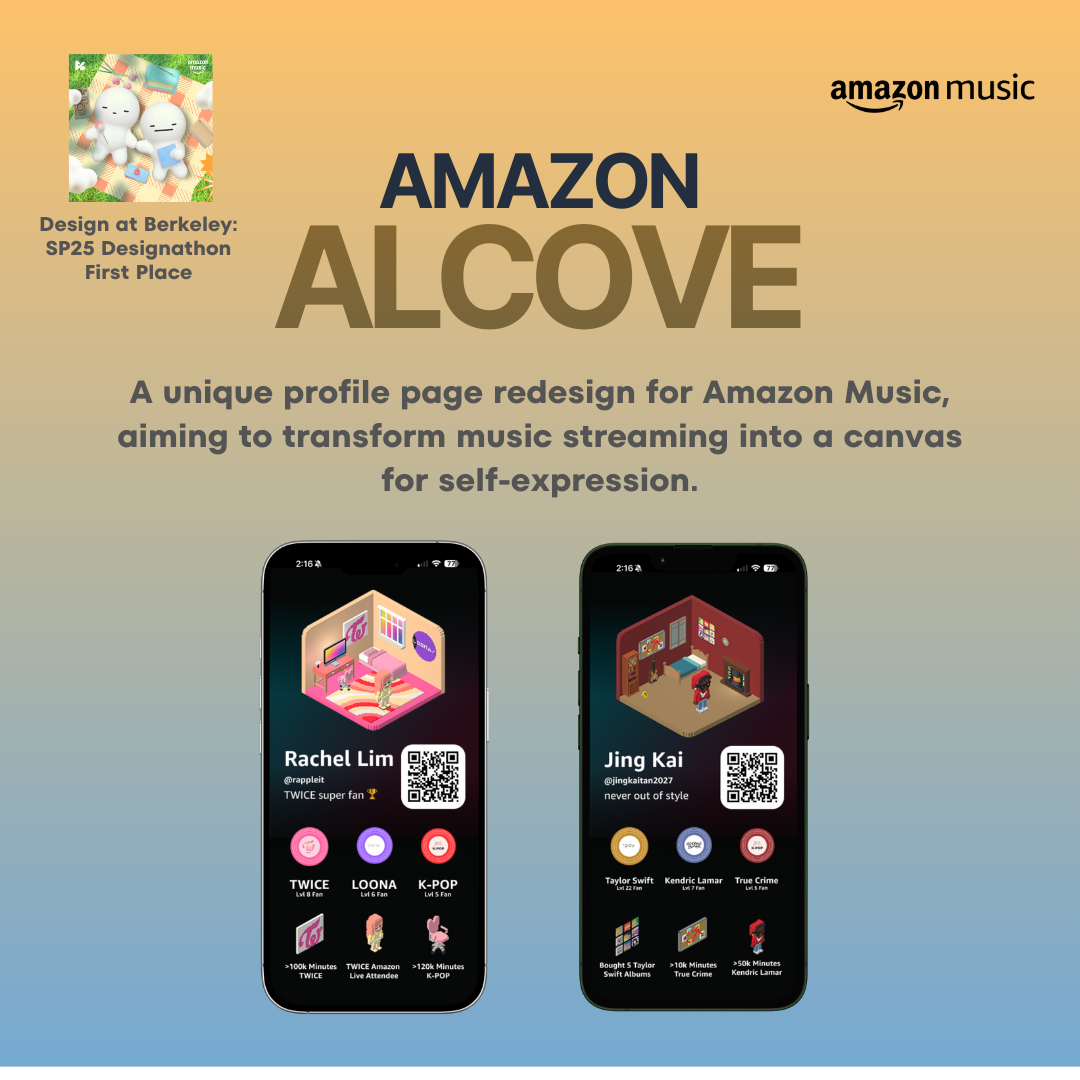
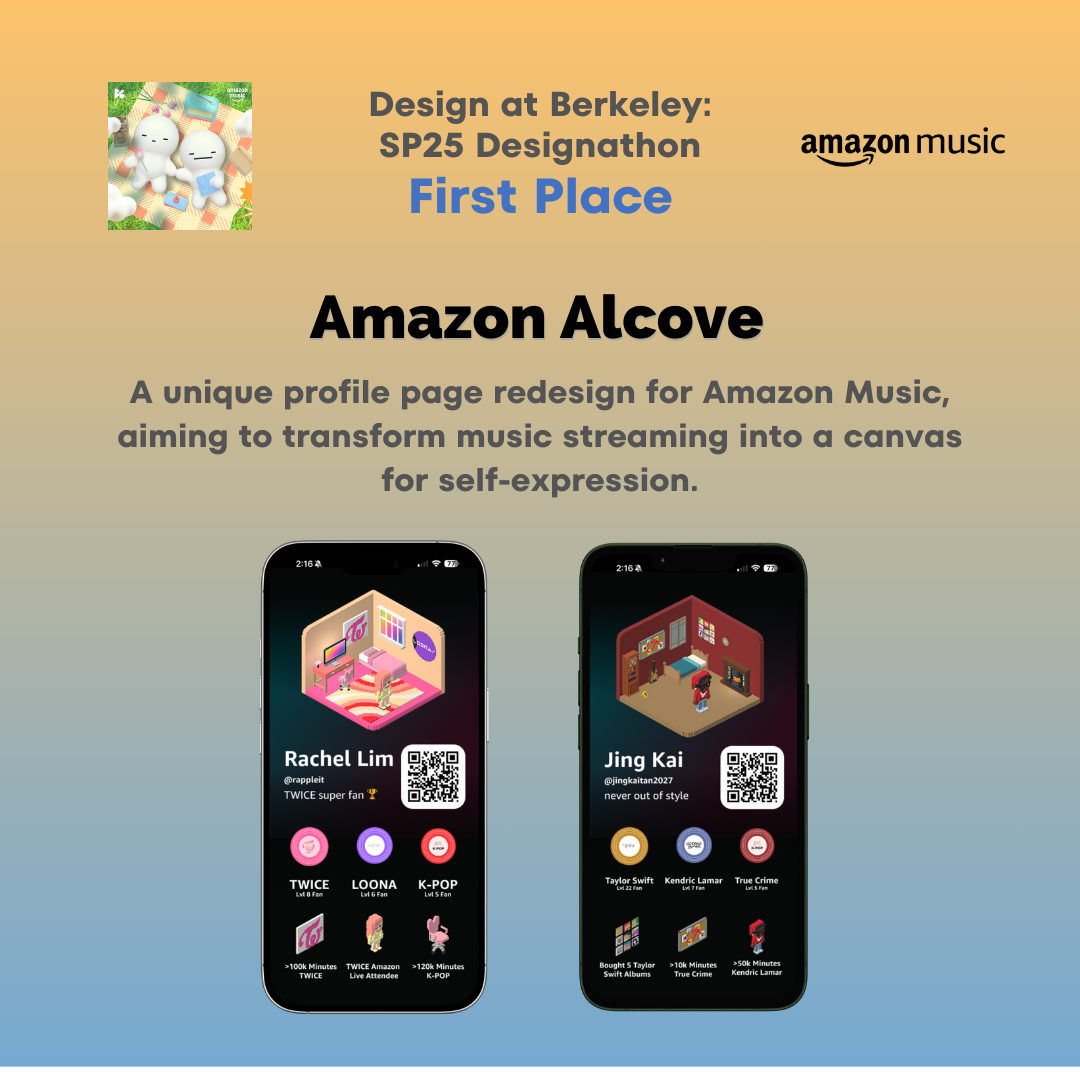
update to main readme

Changed region(s): [[0.2444, 0.0611, 0.7639, 0.3361], [0.0306, 0.0306, 0.2444, 0.275], [0.7333, 0.0611, 0.9472, 0.1528]]

diff --git a/README.md b/README.md
@@ -37,7 +37,7 @@
   <tr>
     <td><a href="LINK7"><img src="img/proj_7.jpg"/></a></td>
     <td><a href="https://euphoria-photostrips.vercel.app/"><img src="img/proj_8.png"/></a></td>
-    <td><a href="LINK9"><img src="img/proj_2.jpg"/></a></td>
+    <td><a href="./more-readme/ALCOVE-README.md"><img src="img/proj_9.png"/></a></td>
   </tr>
 </table>
 
